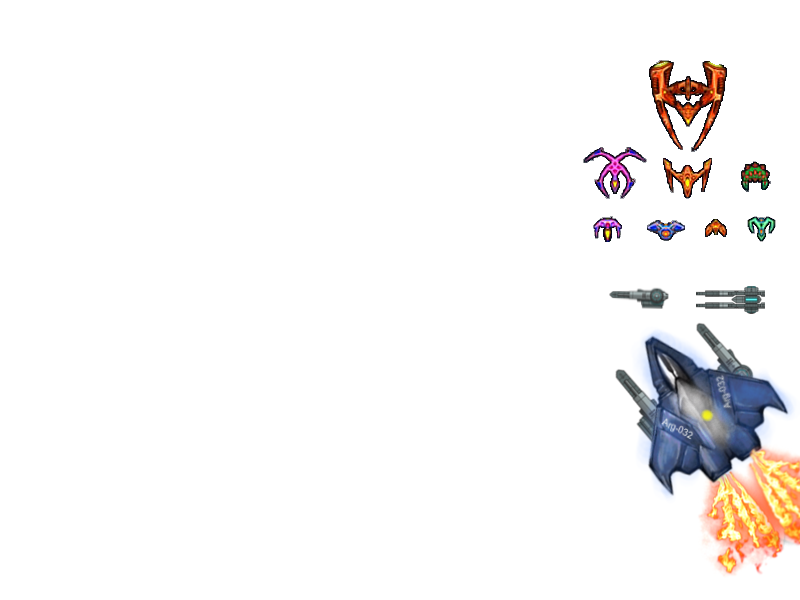
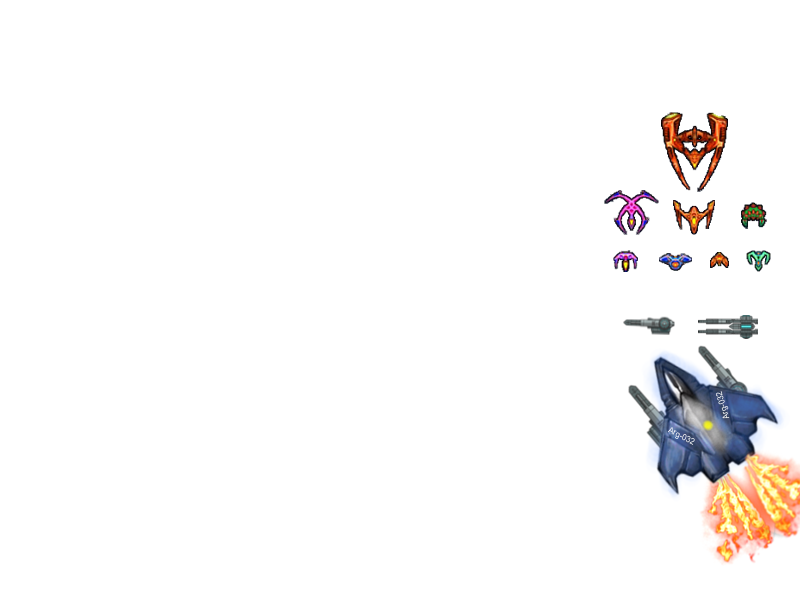
Agregada animacion final y corregidas imagenes

Changed region(s): [[0.75, 0.48, 1.0, 0.96], [0.7188, 0.09, 0.9688, 0.45]]

diff --git a/TP2/invasores.html b/TP2/invasores.html
@@ -36,35 +36,34 @@ and open the template in the editor.
             var content = [
                 "Órbita de Neptuno, Vía Láctea.                                    Año 3987.",
                 "",
-                "Nave confederada argentina, Bítacora del capitán García. Reportes:",
+                "Nave confederada argentina, Bitácora del capitán García. Reportes:",
                 "",
                 "- - - - - Mensaje diario de control y seguimiento:   12/11/3987   Hora: 20:47 hs - - - - -",
-                "Misión de reconocimiento ARG-032 a Neptuno exitosa, regresando con las muestras.",
-                "extaídas necesarias y con total normalidad. Órbita estable, turbulencia nula. ",
+                "Misión de reconocimiento ARG-032 a Neptuno exitosa, regresando con las muestras",
+                "extaídas necesarias, y con total normalidad. Órbita estable, turbulencia nula. ",
                 "Detección de cuerpos rocosos/metálicos a distancia. Próximo reporte en 24 hs.",
                 "Fin comunicación.",
                 "- - - - - - - - - - - - - - - - - - - - - - - - - - - - - - - - - - - - - - - - - - - - - - - - - - - - - - - - - - - -",
                 "",
                 "¡ - - - - Mensaje de urgencia hacia la Tierra:    13/11/3987      Hora: 17:56 hs - - - - !",
                 "¡Finalmente una de nuestras sondas ha interceptado un mensaje procedente de otra ",
-                "galaxia! la distancia y medición de las ondas sugiere que procede de Circinus .",
+                "galaxia! la distancia en la medición de las ondas sugiere que procede de Circinus .",
                 "¡Por primera vez en nuestra historia localizamos un mensaje de contacto extraterrestre!.",
                 "Fin comunicación.",
                 "- - - - - - - - - - - - - - - - - - - - - - - - - - - - - - - - - - - - - - - - - - - - - - - - - - - - - - - - - - - -",
-                ":-Con ayuda de nuestro criptólogo desciframos el mensaje, en un idioma similar al sumerio", 
-                "la traducción indica que otra raza está pidiendo ayuda ante una inminente 'extinción'.",
+                ":-Con ayuda de nuestro criptólogo desciframos el mensaje, en un idioma similar al antiguo", 
+                "sumerio la traducción indica que otra raza está pidiendo ayuda ante una inminente 'extinción'.",
                 "El radar percibe movimientos cercanos apróximandose, en principio parece tratarse de",
                 "una nube de asteroides, aunque es un tanto inusual en esta órbita, confirmaremos reconocimiento.",
-                "Cambiando coordenadas espaciales hacia Circinus , reportando novedades en las próximas 72 horas.  ",
-                "Preparando cañones láser para traspasar la nube... motores en máxima potencia! "
+                "-Cambiando coordenadas espaciales hacia Circinus , reportando novedades en las próximas 72 horas.  ",
+                "Preparando cañones láser para traspasar la nube... motores en máxima potencia!-"
                 
             ];
 
-
-            var line = [];var wordIndex = 0; var lineIndex = 0;
+            var line = [];var wordIndex = 0; var lineIndex = 0;var bActual;
             var wordDelay = 120;var lineDelay = 400;var tec; var musicDaft;
-            var nombreJugador;
-            var derrota=false;
+            var nombreJugador;var vid;
+            var derrota=false; 
             //localStorage.getItem("playerName");
 
 
@@ -87,7 +86,21 @@ and open the template in the editor.
                     image.body.velocity.x = +30;
                     game.add.sprite(60, 400, 'teclas');
                     bmpText = game.add.bitmapText(10, 200, 'carrier_command', '', 18);
+                    //bmpText.tint=0xF4FA58;
                     bmpText.text = '       Bienvenido Aventurera/o!\n\n             Haz Click \n\n           para Comenzar \n\n         La EPICA BATALLA!';
+                    
+        
+
+//                //  Player physics properties. Give the little guy a slight bounce.
+//                jug = game.add.sprite(115, 185, 'daftMov');
+//                //jug.scale.setTo(0.5,0.5);
+//                game.physics.arcade.enable(jug);
+////                jug.body.bounce.y = 0.2;
+////                jug.body.gravity.y = 300;
+//                jug.body.collideWorldBounds = true;
+        
+                     //jug.animations.add('baile', [0, 1, 2, 3, 4], 10, true);
+                     
                     this.comenzarJuego();
                 },
                 comenzarJuego: function () {
@@ -98,6 +111,8 @@ and open the template in the editor.
                     this.game.state.start('historia');
                 },
                 update: function () {
+                    // jug.animations.play('baile');
+//                    
                     if (image.body.x === 200) {
                         image.body.velocity.x = -30;
                     }
@@ -1312,7 +1327,7 @@ and open the template in the editor.
                     game.load.spritesheet('naveJugador', 'assets/player.png', 40, 40);
                     game.load.spritesheet('explosion', 'assets/explode.png', 128, 128);
                     game.load.spritesheet('explosionJefe', 'assets/explosionJefe.png', 180,178);
-                    //game.load.image('fondoEstrellas', 'assets/starfield.png');
+                    game.load.image('fondoEstrellas', 'assets/starfield.png');
                     game.load.image('fondo3', 'assets/fondo3.png');
                     game.load.image('balaActual', 'assets/balas.png');
                     game.load.image('puntosOro', 'assets/puntosOro.png');
@@ -1321,6 +1336,11 @@ and open the template in the editor.
                     game.load.audio('disparoJugador', ['assets/disparoPlayer.mp3'], 'assets/disparoPlayer.ogg');
                     game.load.audio('disparoAlien', ['assets/disparoAlien.mp3'], 'assets/disparoAlien.ogg');
                     game.load.audio('explosionAlien', ['assets/expAlien.mp3'], 'assets/expAlien.ogg');
+                    game.load.spritesheet('daftMovAmarillo', 'assets/daftMovAmarillo.png',125,200);
+                    game.load.spritesheet('daftMovAzul', 'assets/daftMovAzul.png',125,200);
+                    game.load.spritesheet('daftMovRojo', 'assets/daftMovRojo.png',125,200);
+                    game.load.spritesheet('daftMovVioleta', 'assets/daftMovVioleta.png',125,200);
+                    
                     //game.load.audio('musicaDeepSpace', ['assets/deepSpace.mp3'], 'assets/deepSpace.ogg');
                     game.load.audio('musicaJefe', ['assets/musicaJefe.mp3'], 'assets/musicaJefe.ogg');
                     game.load.audio('musicDaft',['assets/musicDaft.mp3'], 'assets/musicDaft.ogg');
@@ -1363,12 +1383,13 @@ and open the template in the editor.
                     sonidoObtenerEscudo = game.add.audio('obtenerEscudo');
                     sonidoObtenerEscudo.volume = 10;
                     fondo3 = game.add.tileSprite(0, 0, 800, 600, 'fondo3');
+                    
+                    
 
                     //  Grupo formado por las balas del jugador
                     balasJug = game.add.group();
                     balasJug.enableBody = true;
                     balasJug.physicsBodyType = Phaser.Physics.ARCADE;
-
                     balasJug.createMultiple(30, 'balaJugador');
                     //Definimos posicionamiento en diagonal
                     balasJug.setAll('anchor.x', 0.5);
@@ -1440,14 +1461,15 @@ and open the template in the editor.
                     //Defino variable para controlar cantidad de balas restantes
                     cantBalasString = 'Balas Restantes:';
                     balasRestantesTexto = game.add.text(70, 550, cantBalasString + (balas+1), {font: '24px Arial', fill: '#fff'});
-                    game.add.sprite(10, 540, 'balaActual');
+                    bActual = game.add.sprite(10, 540, 'balaActual');
                     //  Definimos varible para almacenar los puntajes
                     puntajeString = 'Puntaje : ';
                     puntajeTexto = this.add.text(10, 10, puntajeString + puntos, {font: '24px Arial', fill: '#fff'});
 
                     //  Definimos el grupo 'vidas' para que no tenga únicamente una
                     vidas = game.add.group();
-                    game.add.text(game.world.width - 120, 10, 'Vidas : ', {font: '26px Arial', fill: '#fff'});
+                    vid = game.add.text(game.world.width - 120, 10, 'Vidas : ', {font: '26px Arial', fill: '#fff'});
+                    
 
                     //Creamos el gráfico para indicar cuántas vidas tenemos disponible
                     for (var i = 0; i < 3; i++)
@@ -1468,7 +1490,7 @@ and open the template in the editor.
                     
                     explosionJefe= game.add.group();
                     explosionJefe.createMultiple(20,'explosionJefe');
-                     explosionJefe.forEach(this.explotarJefe, this);
+                    explosionJefe.forEach(this.explotarJefe, this);
                     //explosionJefe.animation.add('explotar',[0,1,2,3,4,5,6,7,8,9,10,11],10,true);
 
                     //  Añadimos los cursores para poder jugar
@@ -1633,20 +1655,11 @@ and open the template in the editor.
                         exp.scale.setTo(1,1);
                         exp.reset(alien.body.x+100,alien.body.y+100);
                        exp.play('explosionJefe',8,false,true);
-//                       var exp2 = explosionJefe.getFirstExists(false);
-//                       exp2.scale.setTo(1,1);
-//                        exp2.reset(alien.body.x+130,alien.body.y+180);
-//                       exp2.play('explosionJefe',10,false,true);
-//                    explosionJefe.play();
                     alien.kill();
                     }
                     else{
                         vidasJefe--;
                     }
-                    
-                    //  Incrementamos el puntaje por haber matado una nave enemiga
-//                    puntos += 1000;
-//                    puntajeTexto.text = puntajeString + puntos;
 
                     //  Añadimos la explosion causada por el impacto sobre la posicion del alien
                     var explosion = explosiones.getFirstExists(false);
@@ -1659,10 +1672,13 @@ and open the template in the editor.
                     {
                         puntos += 5000;
                         puntajeTexto.text = puntajeString + puntos;
-
+                        
                         enemyBullets.callAll('kill', this);
+                        
                         //bmpText.text = '   Ganaste!!!\n\nHaz Click Para\n\n    Ver Los \n\n    Resultados!';
+                        //bmpText.tint=0xF4FA58;
                         bmpText.text = '  Has derrotado \n\n Al Gran Jefe !!\n\n Felicitaciones!! \n\n Puntos totales: \n\n      '+puntos;
+                        //bmpText.tint=0xA9F5A9;
                         //elimino datos
                         band = false;
                         //puntajeTexto.text = '';
@@ -1677,6 +1693,41 @@ and open the template in the editor.
                         }
                         existeEscudo = false;
                         jugador.kill();
+                        vidas.callAll('kill');
+                        vidas.callAll('kil');
+                        puntajeTexto.text='';
+                        balasRestantesTexto.text = '';
+                        bActual.visible = false;
+                        vid.text = '';
+                        
+                        jugA = game.add.sprite(660, 380, 'daftMovAmarillo');
+                        
+                        jugAz = game.add.sprite(0, 380, 'daftMovAzul');
+                        jugRo = game.add.sprite(0,10,'daftMovRojo');
+                        jugVi = game.add.sprite(660,10,'daftMovVioleta');
+                        //jug.scale.setTo(0.5,0.5);
+                        game.physics.arcade.enable(jugA);
+                        game.physics.arcade.enable(jugAz);
+                        game.physics.arcade.enable(jugRo);
+                        game.physics.arcade.enable(jugVi);
+    //                  jug.body.bounce.y = 0.2;
+    //                  jug.body.gravity.y = 300;
+                        jugA.body.collideWorldBounds = true;
+                        jugA.animations.add('baileA', [0, 1, 2, 3, 4, 5, 6, 7], 16, true);
+                        jugAz.body.collideWorldBounds = true;
+                        jugAz.animations.add('baileAz', [0, 1, 2, 3, 4, 5, 6, 7], 16, true);
+                        jugRo.body.collideWorldBounds = true;
+                        jugRo.animations.add('baileRo', [0, 1, 2, 3, 4, 5, 6, 7], 16, true);
+                        jugVi.body.collideWorldBounds = true;
+                        jugVi.animations.add('baileVi', [0, 1, 2, 3, 4, 5, 6, 7], 16, true);
+                        
+                        
+                        for(i=0;i<1;i++){
+                        jugA.animations.play('baileA');
+                        jugAz.animations.play('baileAz');
+                        jugRo.animations.play('baileRo');
+                        jugVi.animations.play('baileVi');
+                    }
                         
                         //El manejador del evento para reiniciar
 //                        game.input.onTap.addOnce(this.mostrarRes, this);
